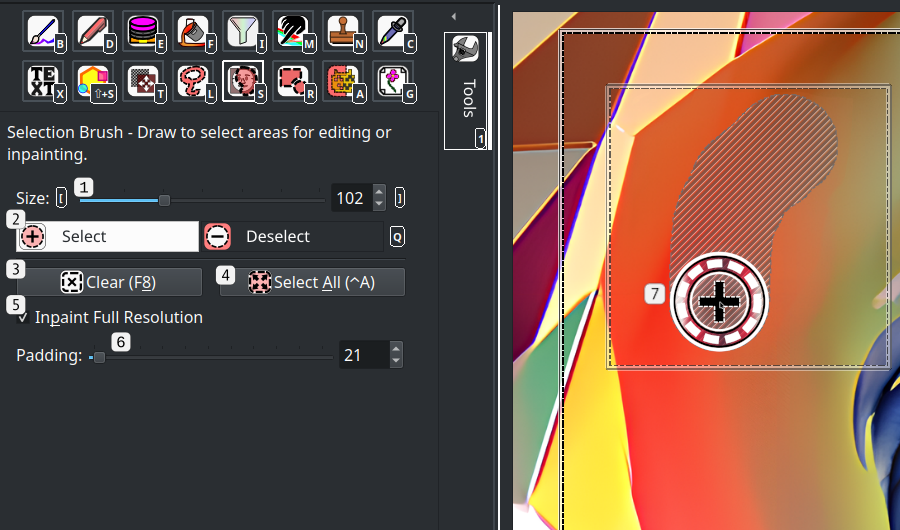
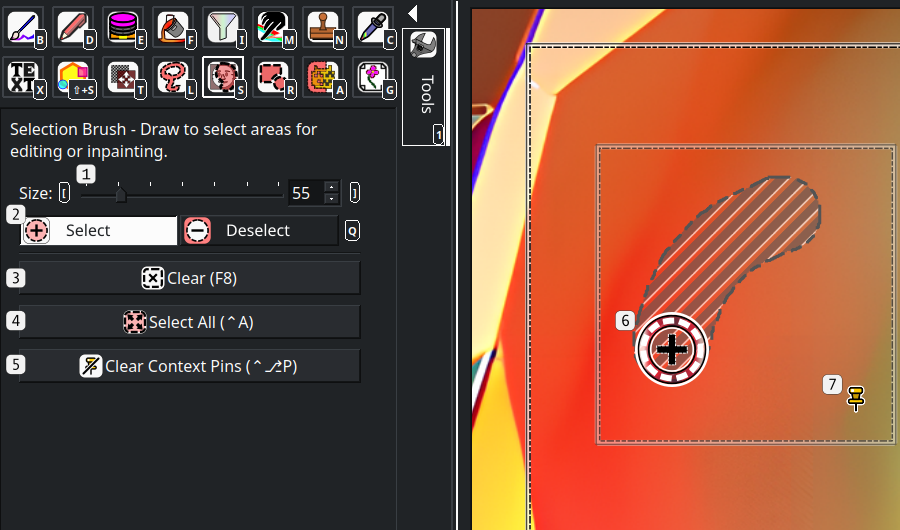
docs: update the generation area and selection brush screenshots
Replaces the labeled gen_area.png and brush_select.png screenshots with
captures that show the frame chips, resize handles and a context pin, and
renumbers the matching tool guide entries.

Claude-Session: https://claude.ai/code/session_01JLYq1Nq7LCP5b6Zd7XzAGJ

diff --git a/doc/tool_guide.md b/doc/tool_guide.md
@@ -401,10 +401,14 @@ Select content by drawing over it in the image, similar to the brush tool.  If u
 1. **Brush size slider**: Change the size of the selection brush.
 2. **Select/Deselect toggle**: Switch between selecting image content and deselecting content.
 3. **Clear button**: Remove all selections.
-4. **Select All button**: Select all image content. In inpainting mode, a **Clear Context Pins** button follows it, removing every [context pin](#-selection-brush-tool-s).
-5. **"Inpaint Full Resolution" checkbox**: Only visible when the Stable Diffusion AI image generator is active.  When checked, the image generation area scales down to remove unselected content. See the [inpainting guide](./inpainting_guide.md) for more details.
-6. **"Inpaint Full Resolution padding" slider**: Only visible when the Stable Diffusion AI image generator is active and "Inpaint Full Resolution" is checked.  Controls how much extra padding space is included around selected content when inpainting.
-7. Selected content. The rectangle around this area shows the cropped bounds used for inpainting selected content when "Inpaint Full Resolution" is checked.
+4. **Select All button**: Select all image content.
+5. **Clear Context Pins button**: Only visible in inpainting mode.  Removes every [context pin](#-selection-brush-tool-s).
+6. Selected content, under the selection brush cursor. The rectangle around this area shows the cropped bounds used for inpainting selected content when "Inpaint Full Resolution" is checked.
+7. A context pin. The cropped bounds stretch to include it, but the pinned spot isn't selected for inpainting.
+
+When the Stable Diffusion AI image generator is active, the panel also shows these controls:
+- **"Inpaint Full Resolution" checkbox**: When checked, the image generation area scales down to remove unselected content. See the [inpainting guide](./inpainting_guide.md) for more details.
+- **"Inpaint Full Resolution padding" slider**: Only visible when "Inpaint Full Resolution" is checked.  Controls how much extra padding space is included around selected content when inpainting.
 
 ---
 ### ![Rectangle/Ellipse Selection tool icon](./tool_icons/shape_selection_icon.png) Rectangle/ellipse selection (R)
@@ -476,10 +480,11 @@ In inpainting mode, the generation area moves after you change the selection or 
    - **"Full image"**: Covers the entire image.
    - **"Square"**: The largest square that fits in the image.
    - **Recent sizes**: Up to four generation area sizes you've used recently, labeled with their size.
-   - **"+ size" field**: Type a size such as `768` (a square) or `640x480`, then press Enter.
    - **Shift+G**: Switches back to the size used before the current one. Press it again to switch back.
-6. **"Resolution rule" dropdown**: Controls how the AI image generation resolution changes when the generation area is resized.
+6. **"+ size" field**: Type a size such as `768` (a square) or `640x480`, then press Enter to resize the area.
+7. **"Resolution rule" dropdown**: Controls how the AI image generation resolution changes when the generation area is resized.
    - **"Match area"**: The resolution always equals the generation area size.
    - **"Match area, upscale small areas"** (default): Like "Match area", but small areas are scaled up by a whole-number factor until their shorter side reaches the minimum set in the settings ("Minimum upscaled resolution side", 512 by default). The factor is reduced if the result would be larger than the maximum generation size.
    - **"Manual"**: The resolution only changes when you edit it. Editing the resolution by hand selects this rule.
-7. **"Image generation resolution" inputs**: Sets the resolution used for AI image generation.
+8. **"Image generation resolution" inputs**: Sets the resolution used for AI image generation.
+9. **Image generation area**: The dotted outline shows the generation area. While this tool is active, drag the square handles on the outline to resize it. Corner handles keep the aspect ratio unless you hold Shift, and edge handles move one side.
